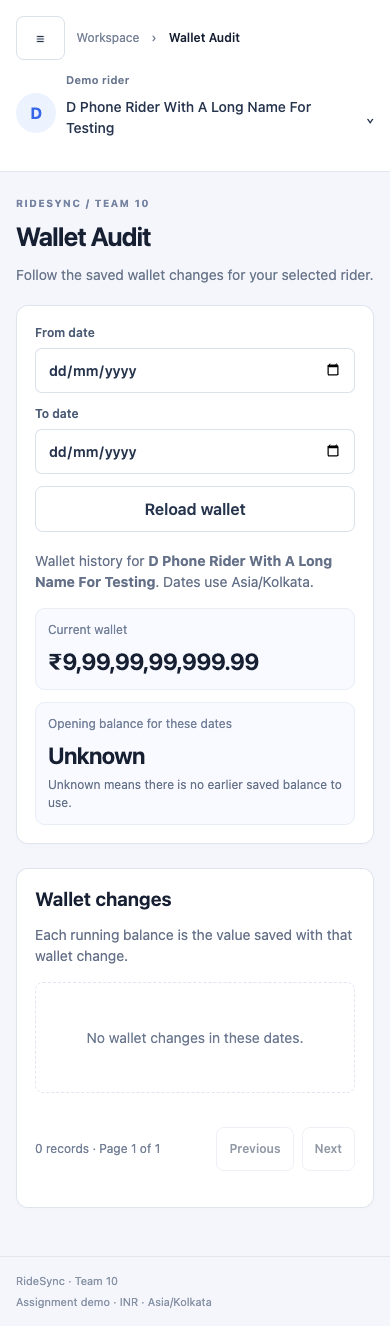
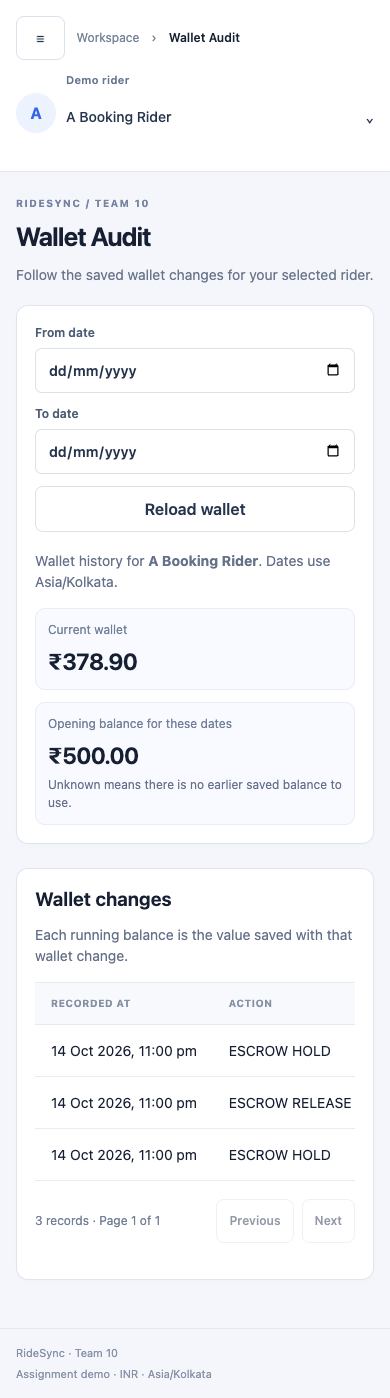
Show the phone screenshot with a normal rider and make it smaller in the README
The old capture used the stress-test rider (very long name, largest balance,
no wallet entries). It now shows a normal rider with saved wallet changes.

diff --git a/web/tests/workflows.spec.js b/web/tests/workflows.spec.js
@@ -174,11 +174,14 @@ test('phone navigation, large balances and scrollable tables fit the screen', as
   await expect(page.getByRole('navigation')).toBeHidden()
   await expect(page.getByText('₹9,99,99,99,999.99', { exact: true })).toBeVisible()
   expect(await page.evaluate(() => document.documentElement.scrollWidth <= innerWidth)).toBe(true)
-  await capture(page, 'wallet-phone.png')
   const balance = await page.getByText('₹9,99,99,99,999.99', { exact: true }).boundingBox()
   expect(balance.height).toBeLessThan(40)
   const touch = await page.getByRole('button', { name: /^Demo rider:/ }).boundingBox()
   expect(touch.height).toBeGreaterThanOrEqual(44)
+  // The README picture uses a normal rider with saved wallet entries, not the stress-test rider above.
+  await choose(page, 'Demo rider', 'A Booking Rider', 'A Booking Rider')
+  await expect(page.getByRole('table', { name: 'Wallet audit trail' })).toBeVisible()
+  await capture(page, 'wallet-phone.png')
   await page.getByRole('button', { name: 'Open navigation' }).click()
   await navigate(page, 'Browse Data')
   const table = page.getByRole('region', { name: 'Browse riders' })

diff --git a/README.md b/README.md
@@ -47,7 +47,7 @@ These were taken by the browser tests, using small temporary test records (not r
 | ![Browse](docs/design/screenshots/browse-desktop.png) Browse | ![Booking](docs/design/screenshots/booking-desktop.png) Booking with audit entry |
 | ![Wallet](docs/design/screenshots/wallet-desktop.png) Wallet audit | ![Analytics](docs/design/screenshots/analytics-desktop.png) Analytics |
 | ![Nearby](docs/design/screenshots/nearby-desktop.png) Nearby vehicles | ![Reviews](docs/design/screenshots/reviews-desktop.png) Reviews and metadata |
-| ![Phone](docs/design/screenshots/wallet-phone.png) Phone layout | |
+| <img src="docs/design/screenshots/wallet-phone.png" width="240" alt="Phone wallet layout"><br>Phone layout (wallet audit) | |
 
 ## Setup
 
